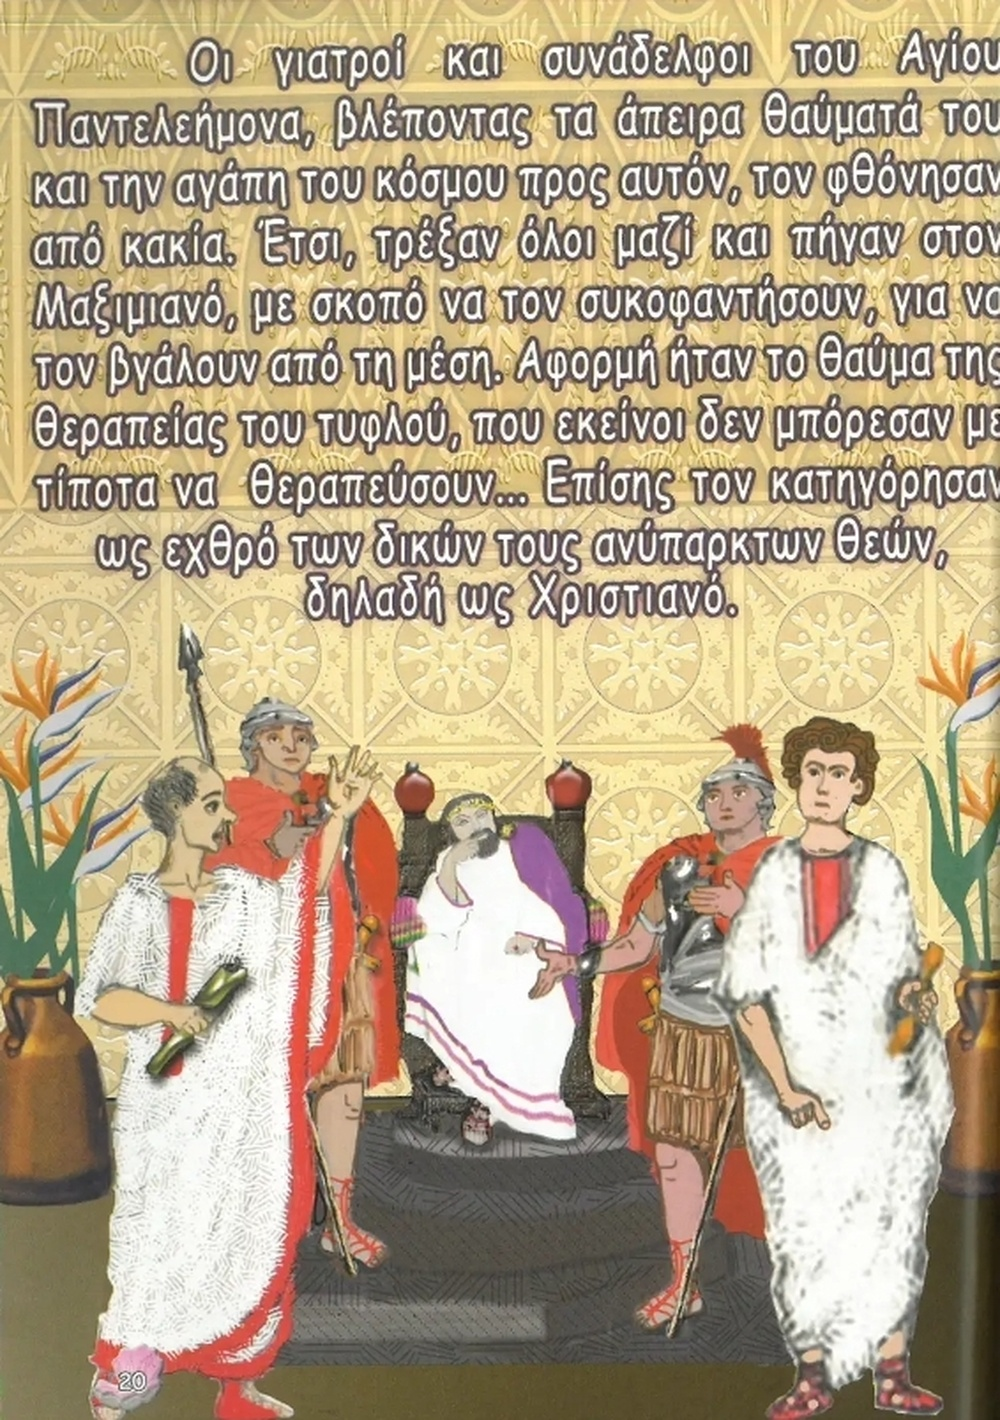
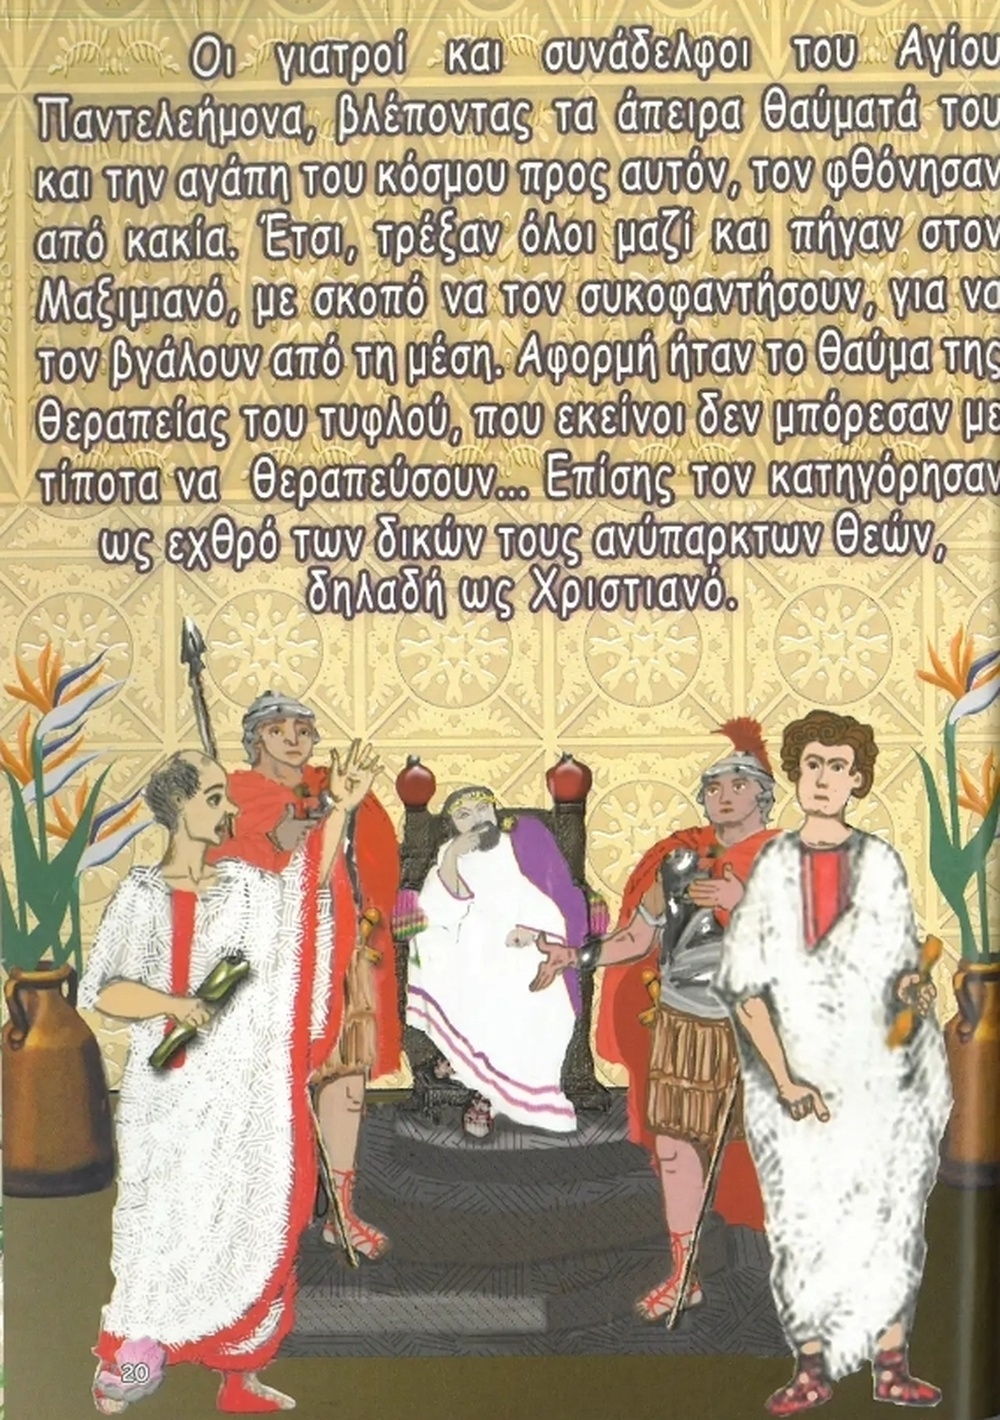
drop removed images from Άγιος Παντελεήμων flipbook

diff --git a/agios_panteleimonas.html b/agios_panteleimonas.html
@@ -579,12 +579,9 @@
                     "1000021595.jpg",
                     "1000021599.jpg",
                     "1000021617.jpg",
-                    "1000021619.jpg",
                     "1000021621.jpg",
                     "1000021623.jpg",
                     "1000021625.jpg",
-                    "1000021627.jpg",
-                    "1000021629.jpg",
                     "1000021631.jpg",
                     "1000021633.jpg",
                     "1000021635.jpg",